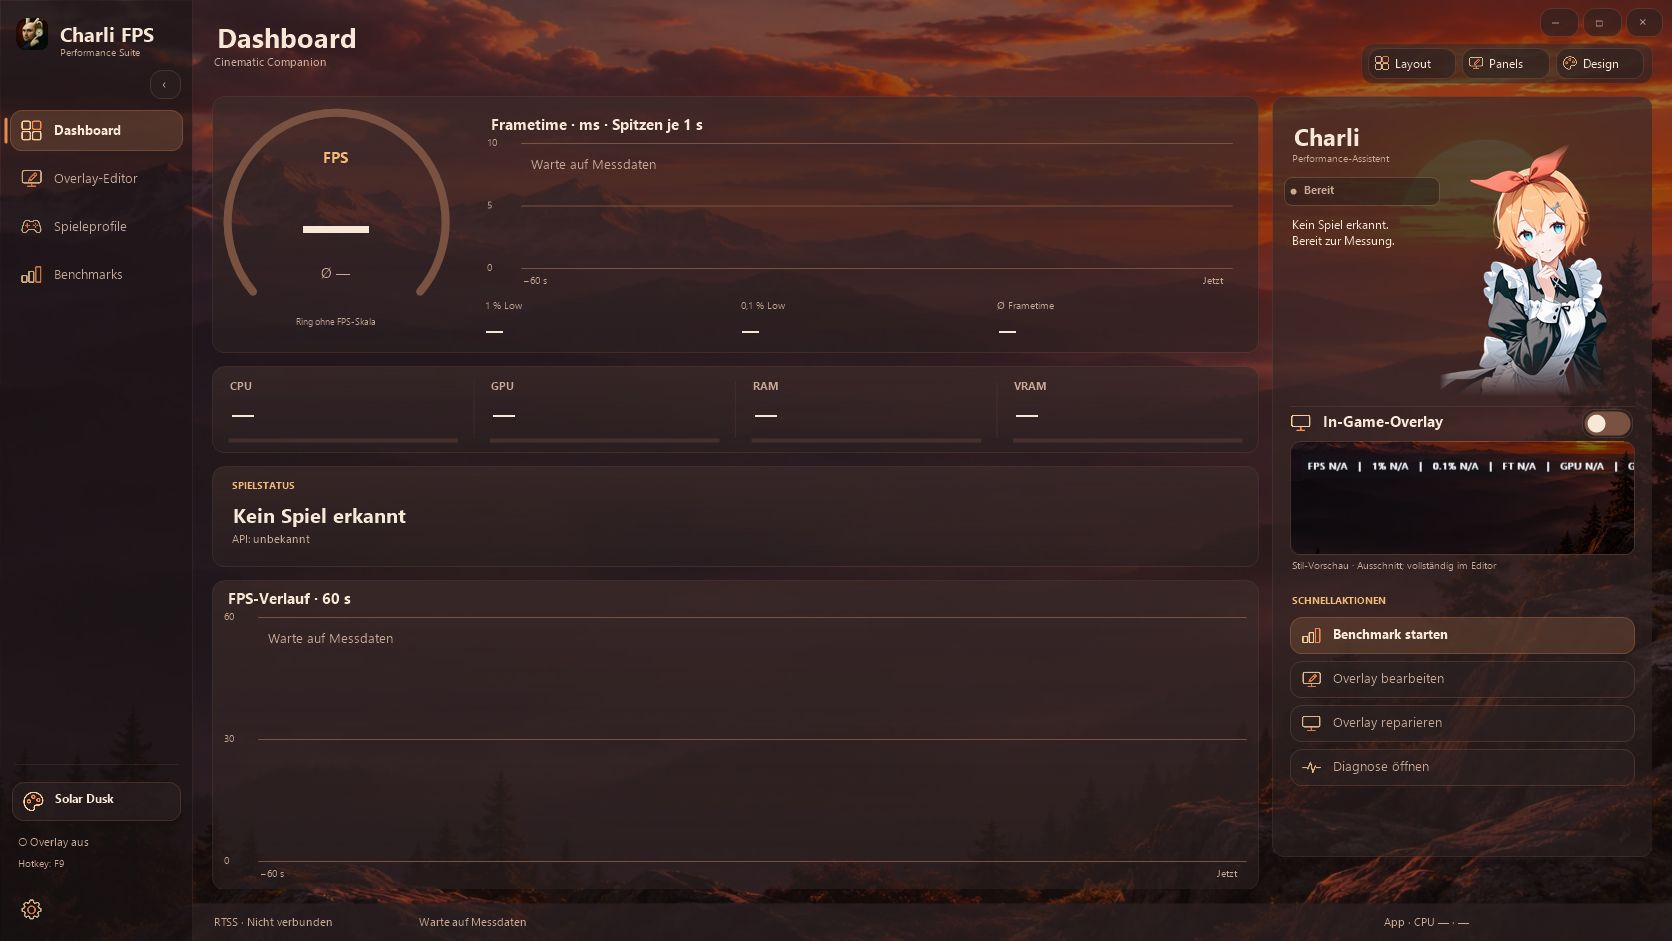
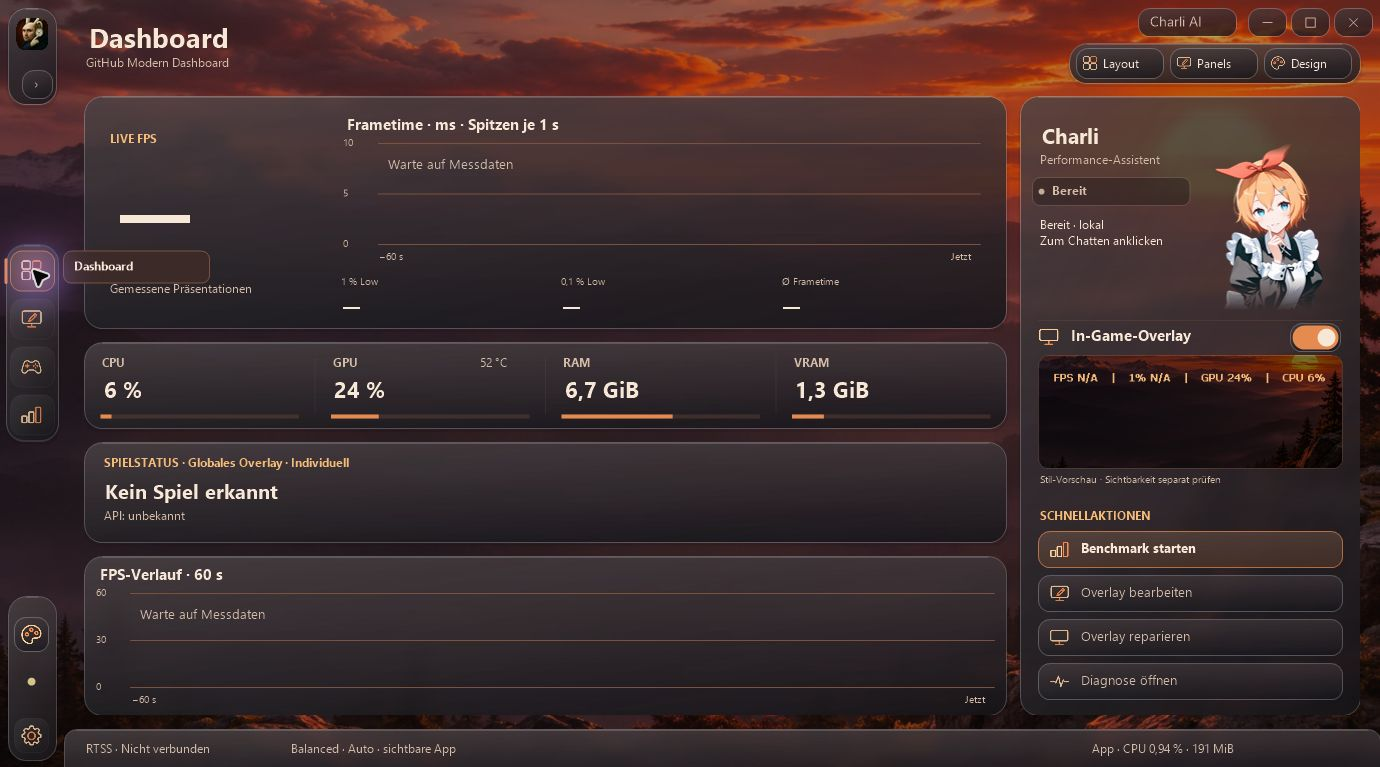
Show Liquid Glass settings and verified real AI chat previews

diff --git a/README.md b/README.md
@@ -24,6 +24,22 @@ Forest, Pure Black, Azure Night, Glacier, Solar Dusk, Violet Pulse, Emerald Luxe
 - Ein gemeinsamer Player für acht lokale MP4-Hintergründe. Nur das aktive Theme wird geladen; Hardwaredecodierung wird genutzt, wenn Windows und Treiber sie unterstützen. Minimieren und aktivierte Spiel-Pausierung reduzieren die Hintergrundarbeit. Reduced Motion verwendet das Originalbild.
 - Einstellbare Hover- und Klickübergänge sowie Eco-, Balanced- und Premium-Profile für die Oberfläche. Die visuelle Glättung verändert keine gemessenen FPS.
 
+## Liquid Glass und Charli AI
+
+![Vollseitige Liquid-Glass-Einstellungen](screenshots/charli-settings.png)
+
+Die vorhandene Navigation, acht Original-Themes und sämtliche Messfunktionen bleiben erhalten. Eigene statische Bild-Themes lassen sich zusätzlich speichern, aktivieren, umbenennen, farblich anpassen, exportieren und nach Bestätigung löschen.
+
+![Echte Hydrogen-Antwort im installierten Chat](screenshots/charli-ai.png)
+
+Charli AI nutzt deinen eigenen Gemini-Zugang. Stop bricht laufende Aufträge ab; Fehler erhalten Entwürfe und empfangene Teilantworten. PNG-, JPEG- und WEBP-Anhänge werden lokal vorgemerkt und erst bewusst mit einer Nachricht gesendet. WEBP benötigt einen passenden Windows-Codec. Bilder bleiben standardmäßig im Sitzungsspeicher.
+
+![Verbindungsstatus mit echtem Erfolgsnachweis](screenshots/charli-ai-connection.png)
+
+Ein gespeicherter Schlüssel allein erzeugt keinen verbundenen Status. Modell und Erfolgszeit beruhen auf einer tatsächlichen Antwort. Schlüssel werden für das Windows-Benutzerkonto verschlüsselt gespeichert.
+
+Bildgenerierung verwendet ein getrennt ausgewähltes Bildmodell, ist standardmäßig aus und verlangt vor jedem Auftrag eine Bestätigung. Modellzugriff, Kontingent, Antwortzeit und Kosten hängen vom Anbieter ab. Es gibt keinen automatischen Modellwechsel und keine automatischen Bild-Neuversuche.
+
 ## Installation und Updates
 
 1. Das aktuelle **Setup-x64.exe** unter [Releases](https://github.com/yousefayat732-prog/charli-fps-releases/releases/latest) herunterladen und ausführen.
@@ -44,4 +60,6 @@ Ein externes Overlay ist nicht in jedem Spiel und exklusiven Vollbildmodus sicht
 
 Update-Dateien werden mit **Ed25519** signiert und zusätzlich mit einer SHA-256-Prüfsumme veröffentlicht. Diese Update-Signatur ist kein Windows-Authenticode-Herausgeberzertifikat. Es werden keine Benutzerkonfigurationen, privaten Protokolle oder Signierschlüssel veröffentlicht.
 
-Version 0.24.0 wurde mit gezielten Mess-, Einstellungs-, Layout- und Interaktionstests geprüft. Die acht Videos wurden lokal über jeweils zwei vollständige Loops geprüft. Das ist keine Garantie für jeden GPU-Treiber, physisch sichtbare 180 Bilder/s oder die Sichtbarkeit in jedem Spiel. Weitere Einzelheiten stehen in den jeweiligen Release-Hinweisen.
+Für 0.25.0 bestanden lokal 188 kontrollierte KI-Prüfungen, native Einstellungs-/Bild-/Theme-Tests und ein Hardware-Lauf mit 32 Original-Theme-Wechseln plus vier eigenen Standbild-/Originalwechseln. Eine echte Hydrogen-Textantwort wurde im installierten Chat geprüft. Der unabhängige Windows-Build bestand 19 Tests; vier Desktop-/GPU-Tests wurden auf dem GitHub-Runner übersprungen und stattdessen lokal geprüft.
+
+Reale Bildgenerierung und physische Mikrofon-/Hörabnahme wurden nicht automatisch freigeschaltet oder als bestanden ausgegeben. Ein zusätzlicher Bildverständnis-Aufruf erhielt zuletzt einen Anbieterfehler 503. Format- und Modellunterstützung garantieren keine momentane Verfügbarkeit beim Anbieter. Auch physisch sichtbare 180 Bilder/s oder die Sichtbarkeit in jedem Spiel werden nicht pauschal zugesichert. Einzelheiten stehen in den jeweiligen Release-Hinweisen.
